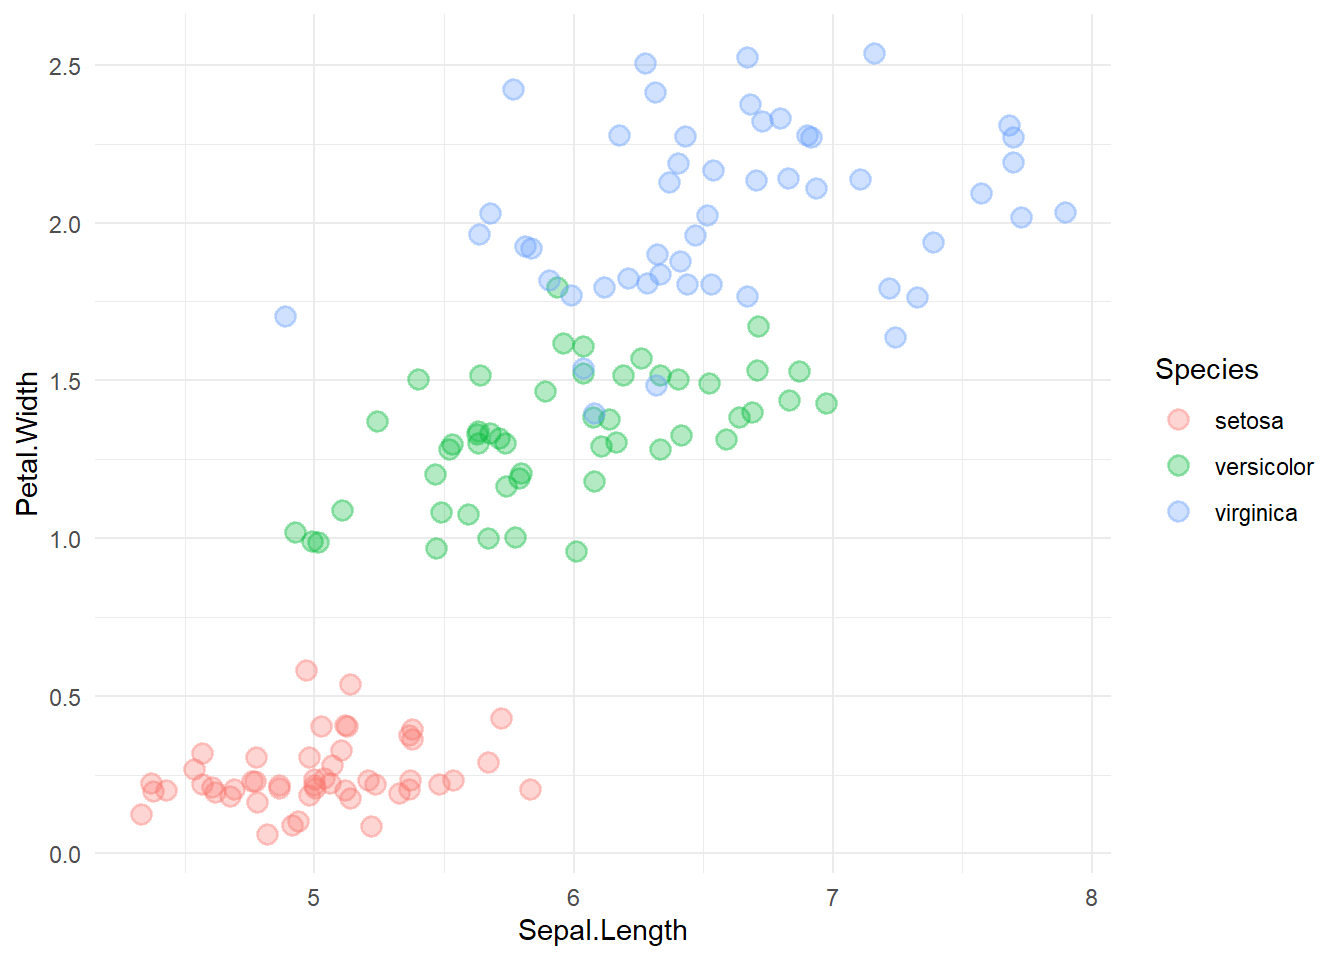
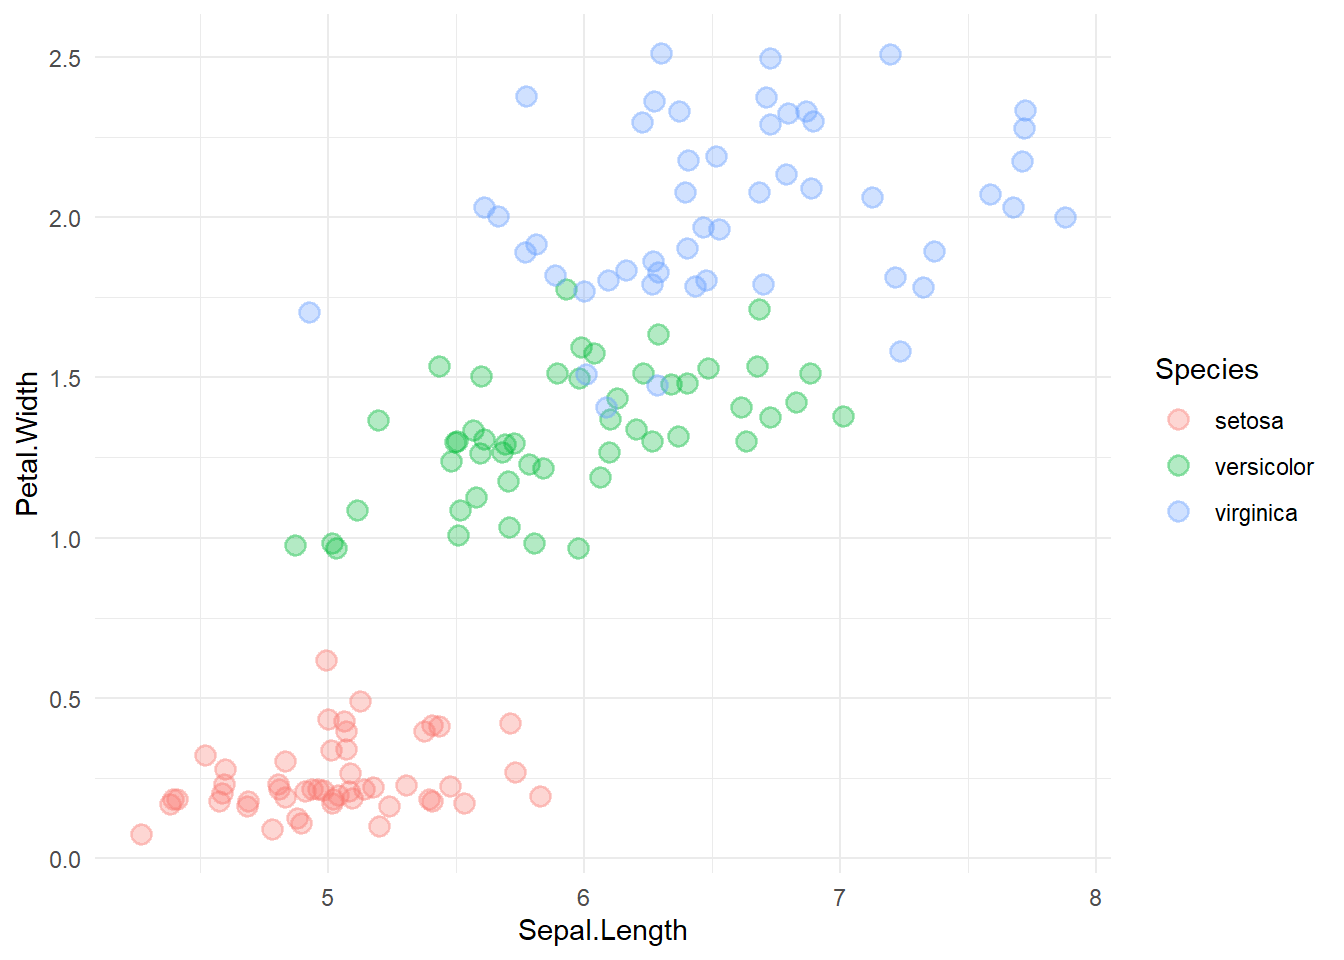
excel xy - r version

diff --git a/docs/posts/excel-xy-pinguinos/index.html b/docs/posts/excel-xy-pinguinos/index.html
@@ -397,7 +397,7 @@ code span.wa { color: #60a0b0; font-weight: bold; font-style: italic; } /* Warni
 <span id="cb2-66"><a href="#cb2-66" aria-hidden="true" tabindex="-1"></a>  ) <span class="sc">+</span></span>
 <span id="cb2-67"><a href="#cb2-67" aria-hidden="true" tabindex="-1"></a>  <span class="fu">annotation_custom</span>(i1, <span class="at">ymin =</span> <span class="dv">43</span>, <span class="at">ymax =</span> <span class="dv">63</span>, <span class="at">xmin =</span> <span class="dv">235</span>, <span class="at">xmax =</span><span class="dv">280</span>) <span class="sc">+</span></span>
 <span id="cb2-68"><a href="#cb2-68" aria-hidden="true" tabindex="-1"></a>  <span class="fu">annotation_custom</span>(i2, <span class="at">ymin =</span> <span class="dv">18</span>, <span class="at">ymax =</span> <span class="dv">55</span>, <span class="at">xmin =</span> <span class="dv">228</span>, <span class="at">xmax =</span><span class="dv">280</span>) <span class="sc">+</span></span>
-<span id="cb2-69"><a href="#cb2-69" aria-hidden="true" tabindex="-1"></a>  <span class="fu">annotation_custom</span>(i3, <span class="at">ymin =</span> <span class="fl">59.7</span>, <span class="at">ymax =</span> <span class="fl">71.7</span>, <span class="at">xmin =</span> <span class="fl">153.8</span>, <span class="at">xmax =</span><span class="fl">166.8</span>) <span class="sc">+</span></span>
+<span id="cb2-69"><a href="#cb2-69" aria-hidden="true" tabindex="-1"></a>  <span class="fu">annotation_custom</span>(i3, <span class="at">ymin =</span> <span class="fl">59.7</span>, <span class="at">ymax =</span> <span class="fl">71.7</span>, <span class="at">xmin =</span> <span class="dv">153</span>, <span class="at">xmax =</span><span class="dv">166</span>) <span class="sc">+</span></span>
 <span id="cb2-70"><a href="#cb2-70" aria-hidden="true" tabindex="-1"></a>  <span class="fu">coord_cartesian</span>(<span class="at">clip =</span> <span class="st">"off"</span>)</span>
 <span id="cb2-71"><a href="#cb2-71" aria-hidden="true" tabindex="-1"></a></span>
 <span id="cb2-72"><a href="#cb2-72" aria-hidden="true" tabindex="-1"></a><span class="fu">plot</span>(scat)</span></code><button title="Copy to Clipboard" class="code-copy-button"><i class="bi"></i></button></pre></div>

diff --git a/docs/index.html b/docs/index.html
@@ -163,7 +163,7 @@ ul.task-list li input[type="checkbox"] {
 
 <div class="quarto-listing quarto-listing-container-default" id="listing-listing">
 <div class="list quarto-listing-default">
-<div class="quarto-post image-right" data-index="0" data-listing-date-sort="1675292400000" data-listing-file-modified-sort="1675599620207" data-listing-reading-time-sort="18.45">
+<div class="quarto-post image-right" data-index="0" data-listing-date-sort="1675292400000" data-listing-file-modified-sort="1675599870304" data-listing-reading-time-sort="18.45">
 <div class="thumbnail">
 <p><a href="./posts/excel-xy-pinguinos/index.html"> <img src="./posts/excel-xy-pinguinos/pinguinos2.png" class="thumnail-image"> </a></p>
 </div>
